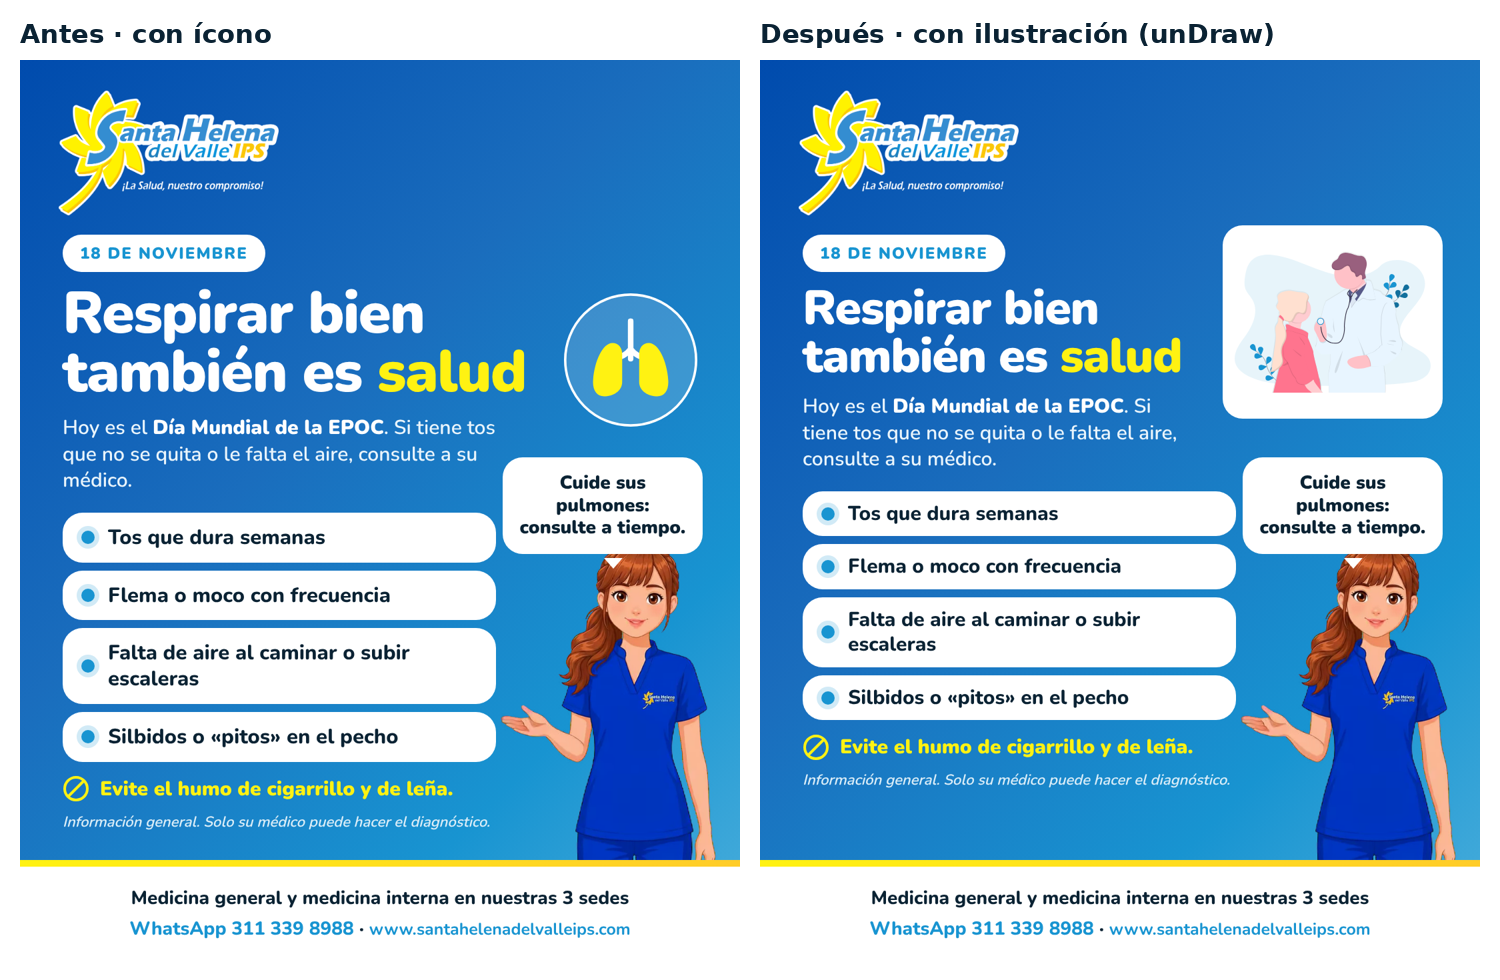
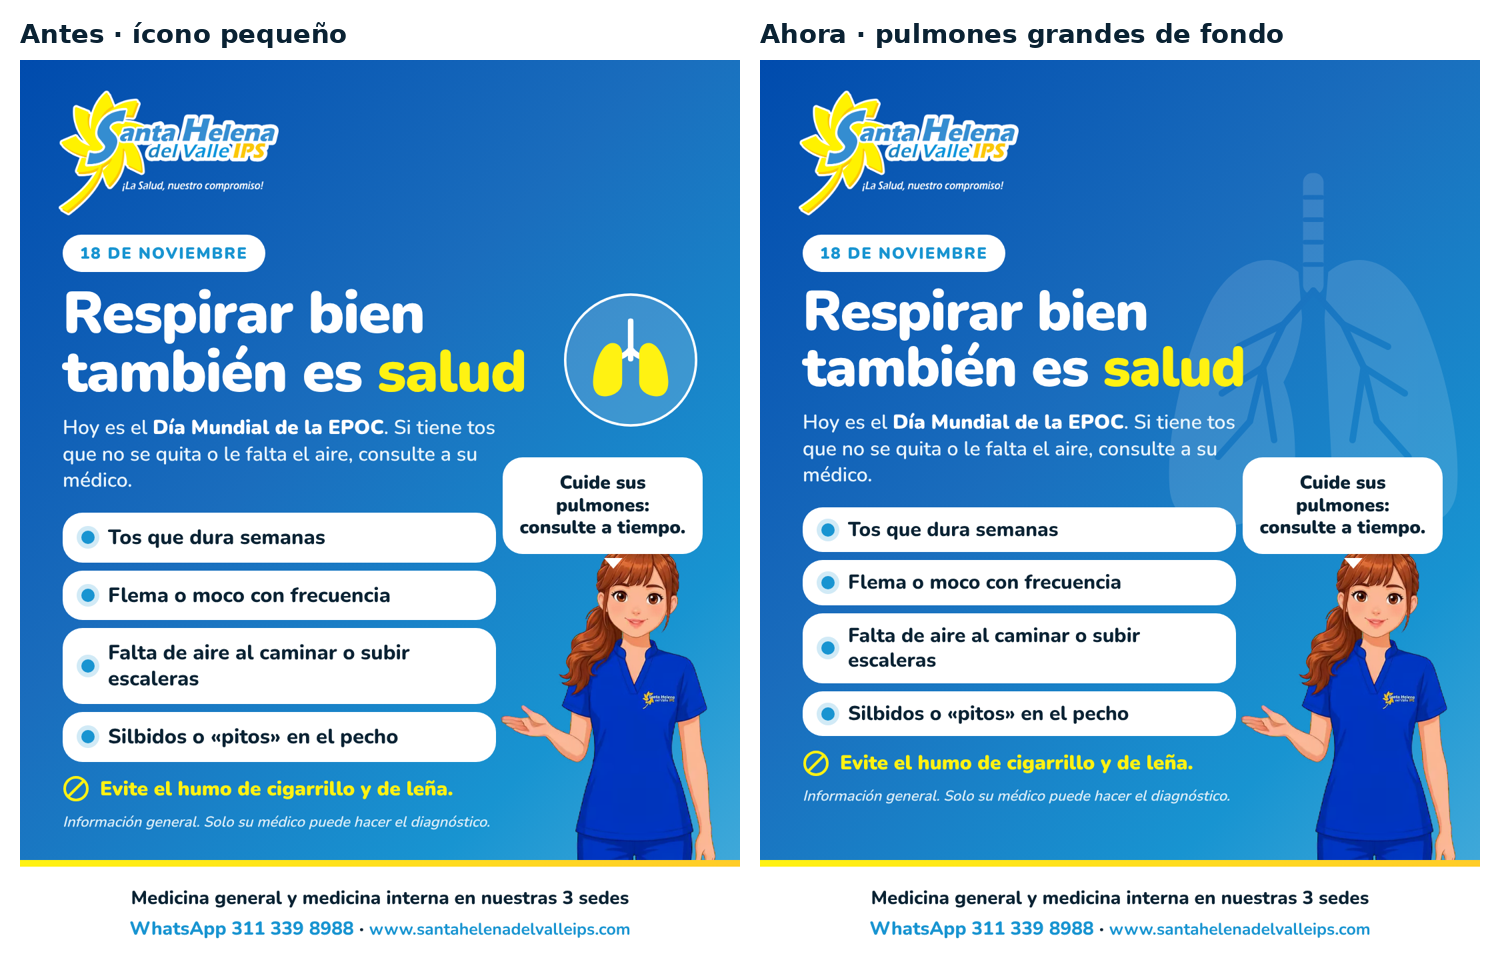
Post EPOC v3: pulmones grandes de fondo con opacidad baja
Claude-Session: https://claude.ai/code/session_01KgBCaN2Nb7mn6jAyyriR7q

Changed region(s): [[0.5213, 0.1837, 0.9813, 0.8265], [0.4907, 0.0306, 0.8587, 0.0612], [0.092, 0.0306, 0.2453, 0.0612]]

diff --git a/entregas/creativo-instagram/2026-11-18-post-dia-epoc/fuente/post.html b/entregas/creativo-instagram/2026-11-18-post-dia-epoc/fuente/post.html
@@ -10,10 +10,9 @@ body{background:#888;padding:30px}
 .tag{display:inline-block;background:#fff;color:#1894D1;font-weight:900;font-size:24px;letter-spacing:.08em;text-transform:uppercase;padding:12px 26px;border-radius:999px}
 h1{margin-top:18px;font-weight:900;font-size:88px;letter-spacing:-.02em;line-height:1}
 h1 span{color:#FFF212}
-.apoyo{margin-top:20px;width:590px;font-size:30px;line-height:1.32;font-weight:600;color:#EAF5FC}
+.apoyo{margin-top:20px;width:680px;font-size:30px;line-height:1.32;font-weight:600;color:#EAF5FC}
 .apoyo b{color:#fff;font-weight:900}
-.escena{position:absolute;right:56px;top:248px;width:330px;height:290px;background:#fff;border-radius:30px;padding:18px;display:flex;align-items:center;justify-content:center}
-.escena img{width:100%;height:100%;object-fit:contain}
+.pulmones{position:absolute;right:-30px;top:150px;width:560px;height:588px}
 ul{list-style:none;margin-top:28px;width:650px;display:flex;flex-direction:column;gap:12px}
 li{background:#fff;color:#0A2233;border-radius:30px;padding:15px 28px;font-size:30px;line-height:1.25;font-weight:800;display:flex;gap:20px;align-items:center}
 li::before{content:"";flex:none;width:20px;height:20px;border-radius:50%;background:#1894D1;box-shadow:0 0 0 7px rgba(24,148,209,.2)}
@@ -29,10 +28,17 @@ li::before{content:"";flex:none;width:20px;height:20px;border-radius:50%;backgro
 </style></head><body>
 <section id="post">
   <img class="logo" src="img/logo-con-lema-transparente.png">
-  <div class="escena"><img src="img/undraw-doctor.svg"></div>
+  <svg class="pulmones" viewBox="0 0 400 420"><g opacity=".13">
+<path fill="#fff" d="M184 120 C150 92 108 112 86 160 C58 222 42 300 46 352 C49 388 82 400 122 390 C154 382 176 362 180 332 C182 300 178 262 168 238 C178 220 186 196 188 170 Z"/>
+<path fill="#fff" d="M216 120 C250 92 292 112 314 160 C342 222 358 300 354 352 C351 388 318 400 278 390 C246 382 224 362 220 332 C218 290 214 220 212 170 Z"/>
+<rect x="189" y="14" width="22" height="130" rx="10" fill="#fff"/>
+<g fill="none" stroke="#1A6DBD" stroke-width="7" stroke-linecap="round" stroke-linejoin="round">
+<path d="M200 140 L168 176 L146 222 L132 280"/><path d="M168 176 L120 200"/><path d="M146 222 L102 250"/><path d="M146 222 L158 300"/><path d="M132 280 L98 318"/>
+<path d="M200 140 L232 176 L254 222 L268 280"/><path d="M232 176 L280 200"/><path d="M254 222 L298 250"/><path d="M254 222 L242 300"/><path d="M268 280 L302 318"/>
+<path d="M191 40 h18 M191 64 h18 M191 88 h18 M191 112 h18" stroke-width="5"/></g></g></svg>
   <div class="cont">
     <span class="tag">18 de noviembre</span>
-    <h1 style="font-size:72px">Respirar bien<br>también es <span>salud</span></h1>
+    <h1 style="font-size:84px">Respirar bien<br>también es <span>salud</span></h1>
     <p class="apoyo">Hoy es el <b>Día Mundial de la EPOC</b>. Si tiene tos que no se quita o le falta el aire, consulte a su médico.</p>
     <ul>
       <li>Tos que dura semanas</li>

diff --git a/entregas/creativo-instagram/2026-11-18-post-dia-epoc/LEAME.md b/entregas/creativo-instagram/2026-11-18-post-dia-epoc/LEAME.md
@@ -14,4 +14,8 @@ Encargo directo del Agente Copies Redes con texto aprobado por Nicolas
 Pedido de Nicolas vía JARVIS: menos «ícono», más escenas. Se cambió el ícono de pulmones por la ilustración.
 - Licencia unDraw: uso libre, también comercial, sin pedir permiso ni dar crédito (undraw.co/license). Archivo
   `fuente/img/undraw-doctor.svg` (original `doctor_aum1`, con el color de acento cambiado a #1894D1).
-- `antes-despues.png`: comparación. `post-dia-epoc-v1-iconos.png` y `fuente/post-v1-iconos.html`: versión anterior.
+- `antes-despues.png`: comparación (ícono vs. versión 3). `post-dia-epoc-v1-iconos.png` y `fuente/post-v1-iconos.html`: versión anterior.
+
+## Versión 3 (18 nov 2026)
+A Nicolas no le gustó la ilustración de unDraw. Se cambió por unos **pulmones grandes dibujados a mano, en
+blanco con opacidad muy baja** (13 %), como marca de agua detrás del título. Sin material de terceros.
